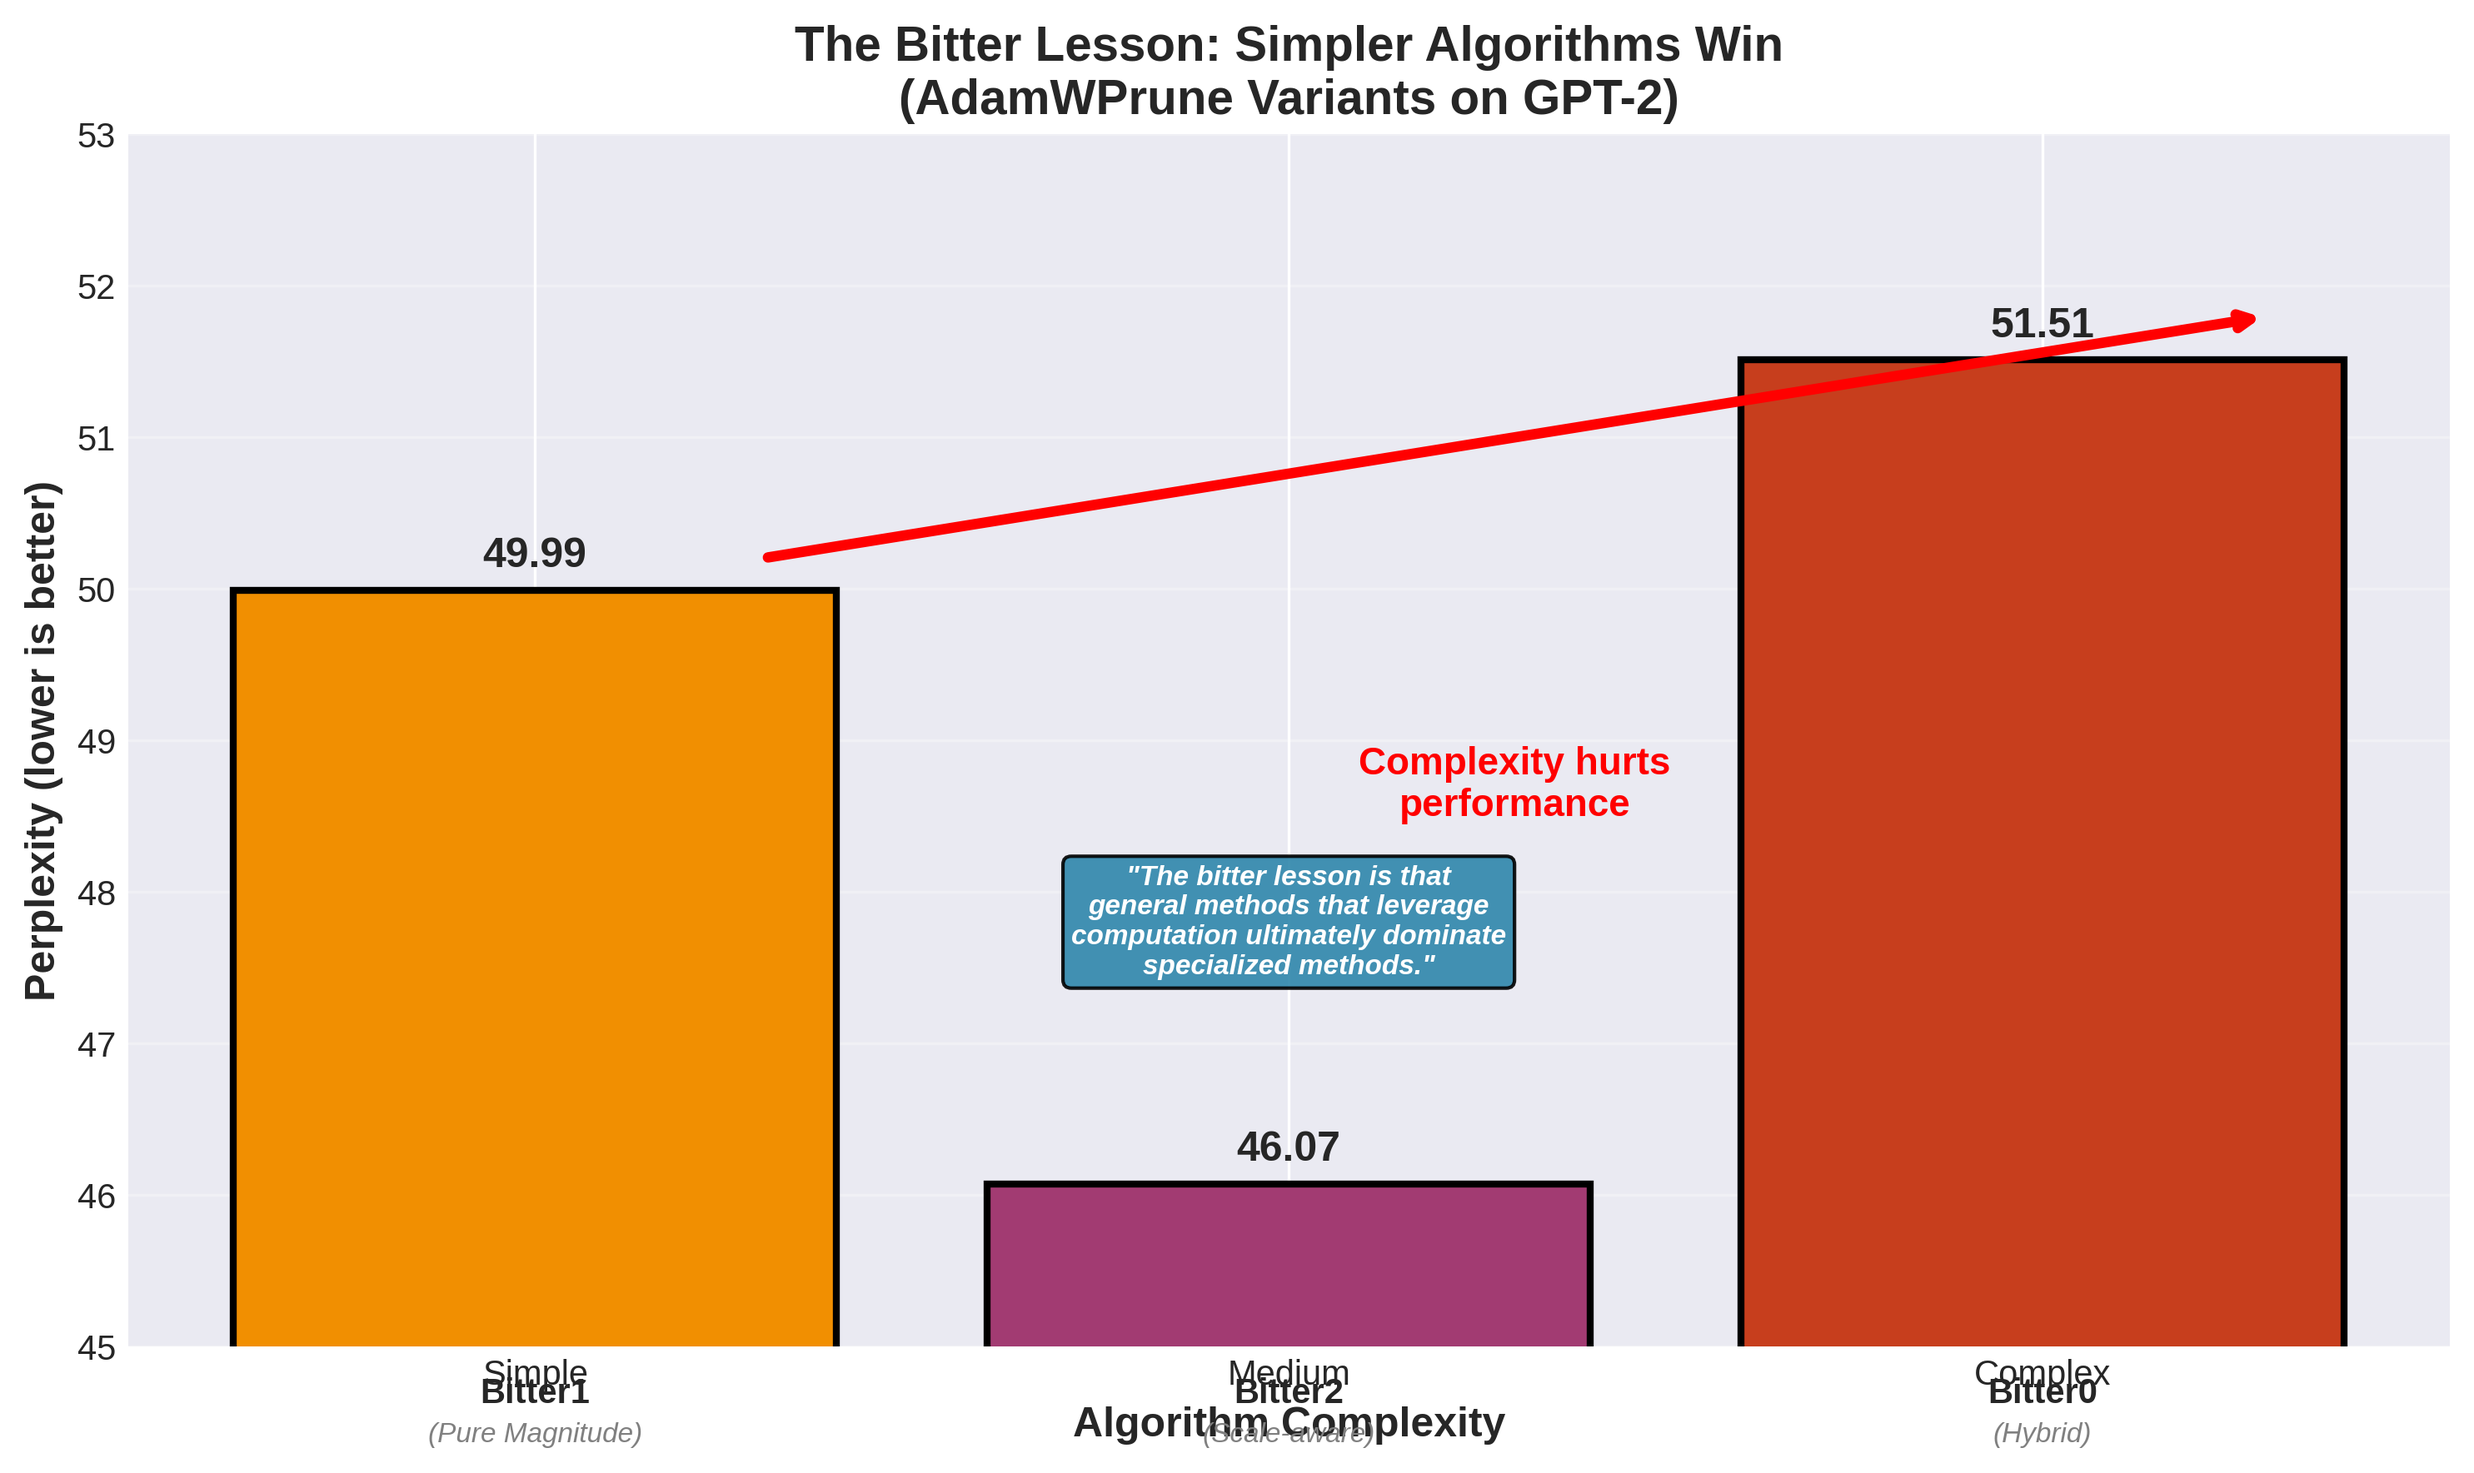
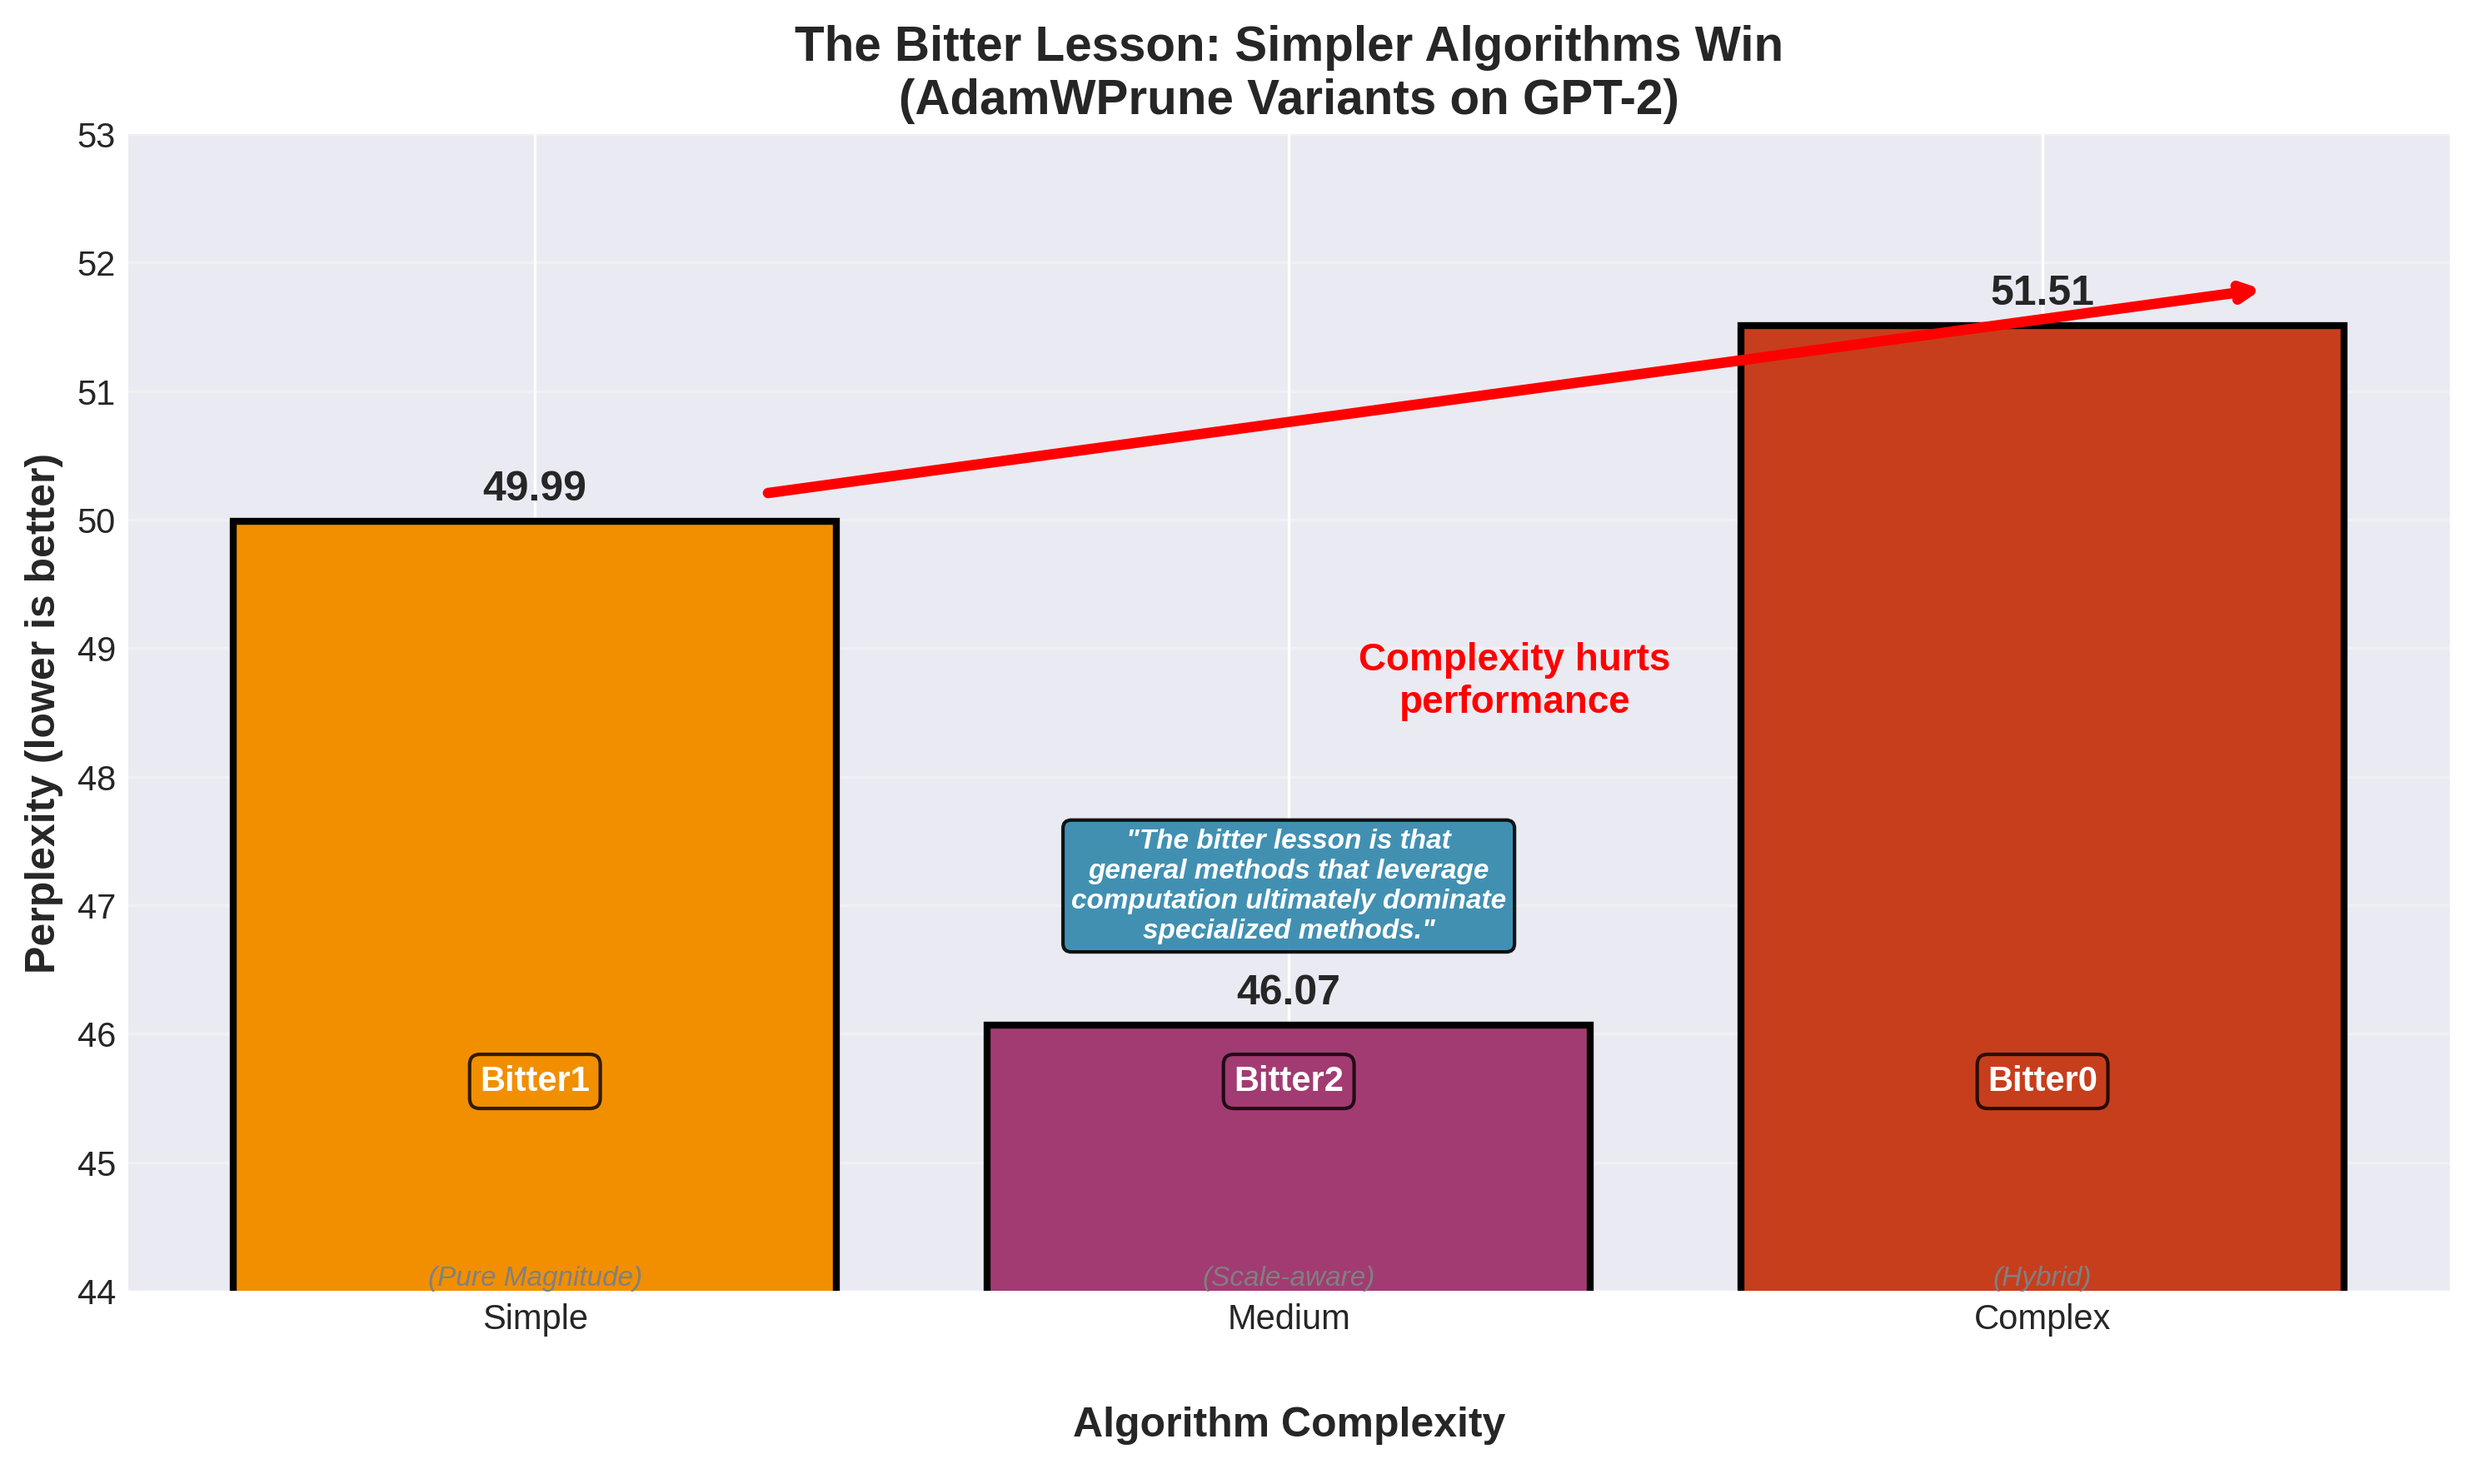
scripts/generate_gpt2_graphs.py: fix label overlap in bitter lesson chart
Fixed text overlap issues in the bitter lesson visualization:

1. Moved Bitter variant names inside colored boxes at the bottom of bars
   - Positioned at y=45.5 with colored background matching the bar
   - White text for visibility
2. Added 20px padding to x-axis label to prevent overlap with descriptions
3. Extended y-axis range to 44-53 to accommodate all labels
4. Added bottom subplot adjustment (0.15) for extra label space
5. Separated variant names and descriptions with more vertical spacing

The chart now has clear separation between all text elements with no
overlap between the "Algorithm Complexity" label and the bar descriptions.

Generated-by: Claude AI

diff --git a/scripts/generate_gpt2_graphs.py b/scripts/generate_gpt2_graphs.py
@@ -153,10 +153,11 @@ def create_bitter_lesson_chart(results, output_dir):
         # Add algorithm variant name and description below x-axis label
         variant = alg.split(' + ')[1]
         descriptions = ['Pure Magnitude', 'Scale-aware', 'Hybrid']
-        # Place variant names below the bars but above x-axis
-        ax.text(bar.get_x() + bar.get_width()/2., 44.8,
-                f'{variant}', ha='center', va='top', fontsize=10, fontweight='bold')
-        ax.text(bar.get_x() + bar.get_width()/2., 44.5,
+        # Place variant names inside the bottom of bars to avoid overlap
+        ax.text(bar.get_x() + bar.get_width()/2., 45.5,
+                f'{variant}', ha='center', va='bottom', fontsize=10, fontweight='bold',
+                color='white', bbox=dict(boxstyle='round,pad=0.3', facecolor=colors[i], alpha=0.8))
+        ax.text(bar.get_x() + bar.get_width()/2., 44.2,
                 f'({descriptions[i]})', ha='center', va='top', fontsize=8, style='italic', color='gray')
 
     # Highlight the trend with an arrow
@@ -166,10 +167,13 @@ def create_bitter_lesson_chart(results, output_dir):
             fontsize=11, color='red', fontweight='bold', ha='center')
 
     ax.set_ylabel('Perplexity (lower is better)', fontsize=12, fontweight='bold')
-    ax.set_xlabel('Algorithm Complexity', fontsize=12, fontweight='bold')
+    ax.set_xlabel('Algorithm Complexity', fontsize=12, fontweight='bold', labelpad=20)  # Add padding to prevent overlap
     ax.set_title('The Bitter Lesson: Simpler Algorithms Win\n(AdamWPrune Variants on GPT-2)',
                  fontsize=14, fontweight='bold')
-    ax.set_ylim(45, 53)
+    ax.set_ylim(44, 53)
+
+    # Add extra space at bottom for labels
+    plt.subplots_adjust(bottom=0.15)
 
     # Add grid
     ax.yaxis.grid(True, alpha=0.3)
